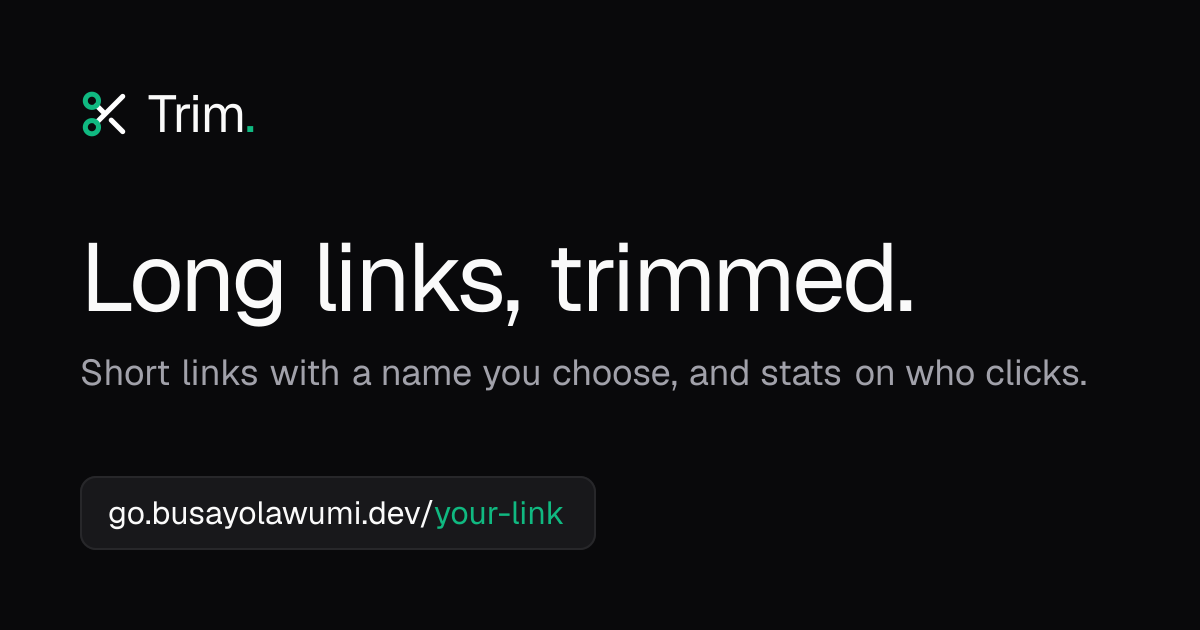
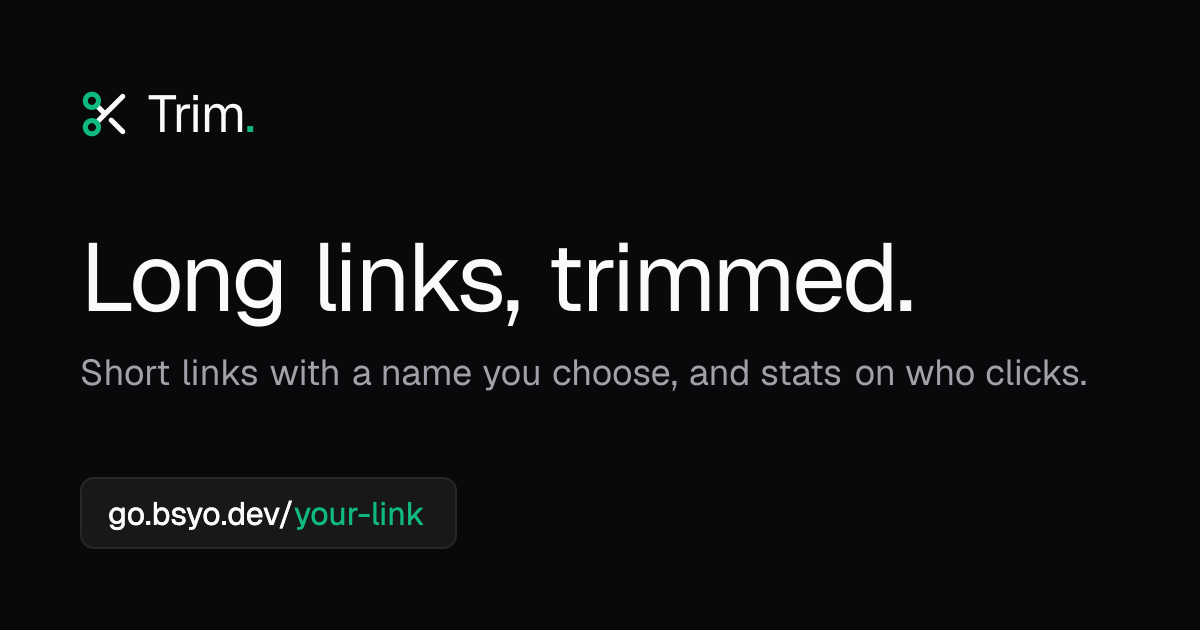
split app and short link domains

Changed region(s): [[0.0925, 0.754, 0.4933, 0.8746]]

diff --git a/src/app/actions/links.ts b/src/app/actions/links.ts
@@ -5,6 +5,7 @@ import { redirect } from "next/navigation";
 import { and, count, eq, sql } from "drizzle-orm";
 import { z } from "zod";
 import { db, isUniqueViolation, linkEvents, links } from "@/db";
+import { APP_BASE_URL, SHORT_BASE_URL } from "@/lib/config";
 import { setFlash } from "@/lib/flash";
 import { normalizeTitle } from "@/lib/link-title";
 import { isUnsafeUrl } from "@/lib/safe-browsing";
@@ -26,13 +27,7 @@ const urlSchema = z
 
 const linkIdSchema = z.uuid();
 
-function shortHost() {
-  try {
-    return new URL(process.env.NEXT_PUBLIC_SHORT_BASE_URL ?? "").hostname;
-  } catch {
-    return null;
-  }
-}
+const TRIM_HOSTNAMES = new Set([SHORT_BASE_URL, APP_BASE_URL].map((url) => new URL(url).hostname));
 
 /** Checks a destination URL for both new and edited links. */
 async function checkDestination(raw: string): Promise<{ url: string } | { error: string }> {
@@ -40,7 +35,7 @@ async function checkDestination(raw: string): Promise<{ url: string } | { error:
   if (!parsedUrl.success) return { error: parsedUrl.error.issues[0].message };
   const url = parsedUrl.data;
 
-  if (new URL(url).hostname === shortHost()) {
+  if (TRIM_HOSTNAMES.has(new URL(url).hostname)) {
     return { error: "You can't shorten a Trim link." };
   }
 

diff --git a/next.config.ts b/next.config.ts
@@ -13,7 +13,37 @@ const securityHeaders = [
   // would change what destination sites see. Vercel already sends Strict-Transport-Security.
 ];
 
+// The website's own pages. On the short-link domain they redirect to the app's domain, so a
+// new top-level page needs adding here.
+const APP_PATHS = [
+  "/",
+  "/login",
+  "/signup",
+  "/forgot-password",
+  "/reset-password",
+  "/verify-email",
+  "/confirm-email",
+  "/dashboard/:path*",
+  "/api/:path*",
+];
+
 const nextConfig: NextConfig = {
+  async redirects() {
+    const short = process.env.NEXT_PUBLIC_SHORT_BASE_URL;
+    const app = process.env.NEXT_PUBLIC_APP_BASE_URL;
+    if (!short || !app) return [];
+    const shortHost = new URL(short).hostname;
+    const appUrl = new URL(app);
+    if (shortHost === appUrl.hostname) return [];
+
+    return APP_PATHS.map((source) => ({
+      source,
+      has: [{ type: "host" as const, value: shortHost }],
+      destination: `${appUrl.origin}${source}`,
+      // Temporary, so browsers don't cache it if the domains ever change.
+      permanent: false,
+    }));
+  },
   async headers() {
     return [{ source: "/:path*", headers: securityHeaders }];
   },

diff --git a/src/app/actions/auth.ts b/src/app/actions/auth.ts
@@ -6,7 +6,7 @@ import { eq, sql } from "drizzle-orm";
 import { z } from "zod";
 import { db, passwordResetTokens, users } from "@/db";
 import { randomAvatar } from "@/lib/avatars";
-import { SHORT_BASE_URL } from "@/lib/config";
+import { APP_BASE_URL } from "@/lib/config";
 import { sendEmail } from "@/lib/email";
 import { cancelEmailChange } from "@/lib/email-change";
 import { sendVerificationEmail } from "@/lib/email-verification";
@@ -142,7 +142,7 @@ export async function requestPasswordReset(
     if (!user) return;
 
     const token = await createResetToken(user.id);
-    const link = `${SHORT_BASE_URL}/reset-password?token=${token}`;
+    const link = `${APP_BASE_URL}/reset-password?token=${token}`;
     await sendEmail({
       to: email,
       subject: "Reset your Trim password",

diff --git a/src/lib/email-verification.ts b/src/lib/email-verification.ts
@@ -1,7 +1,7 @@
 import "server-only";
 import { and, eq, gt, isNull, lt, sql } from "drizzle-orm";
 import { db, emailVerificationTokens, users } from "@/db";
-import { SHORT_BASE_URL } from "@/lib/config";
+import { APP_BASE_URL } from "@/lib/config";
 import { sendEmail } from "@/lib/email";
 import { hashToken, newToken } from "@/lib/tokens";
 
@@ -22,7 +22,7 @@ export async function sendVerificationEmail(userId: string, email: string) {
       expiresAt: sql`now() + make_interval(hours => ${VERIFY_TOKEN_HOURS})`,
     });
 
-  const link = `${SHORT_BASE_URL}/verify-email?token=${token}`;
+  const link = `${APP_BASE_URL}/verify-email?token=${token}`;
   await sendEmail({
     to: email,
     subject: "Verify your email for Trim",

diff --git a/src/app/layout.tsx b/src/app/layout.tsx
@@ -1,7 +1,7 @@
 import type { Metadata } from "next";
 import { Geist, Geist_Mono } from "next/font/google";
 import { Toaster } from "@/components/toaster";
-import { SHORT_BASE_URL } from "@/lib/config";
+import { APP_BASE_URL } from "@/lib/config";
 import "./globals.css";
 
 const geistSans = Geist({
@@ -18,7 +18,7 @@ const description = "Shorten links and see who clicks them.";
 
 export const metadata: Metadata = {
   // Makes the share image's URL absolute, as chat and social apps require.
-  metadataBase: new URL(SHORT_BASE_URL),
+  metadataBase: new URL(APP_BASE_URL),
   title: "Trim",
   description,
   // Browsers that can show SVG icons use the SVG (sharp at any size, no background, blades that

diff --git a/src/lib/security-emails.ts b/src/lib/security-emails.ts
@@ -1,6 +1,6 @@
 import "server-only";
 import { after } from "next/server";
-import { SHORT_BASE_URL } from "@/lib/config";
+import { APP_BASE_URL } from "@/lib/config";
 import { sendEmail } from "@/lib/email";
 import { getTimezone } from "@/lib/timezone";
 
@@ -21,7 +21,7 @@ export async function notifyPasswordChanged(email: string) {
         `The password for your Trim account (${email}) was changed on ${when} (${tz.replace(/_/g, " ")}).\n\n` +
         `If this was you, there's nothing else to do.\n\n` +
         `If it wasn't, reset your password now. That also logs out every device:\n` +
-        `${SHORT_BASE_URL}/forgot-password`,
+        `${APP_BASE_URL}/forgot-password`,
     }),
   );
 }

diff --git a/src/lib/email-change.ts b/src/lib/email-change.ts
@@ -9,7 +9,7 @@ import {
   passwordResetTokens,
   users,
 } from "@/db";
-import { SHORT_BASE_URL } from "@/lib/config";
+import { APP_BASE_URL } from "@/lib/config";
 import { sendEmail } from "@/lib/email";
 import { hashToken, newToken } from "@/lib/tokens";
 
@@ -29,7 +29,7 @@ export async function sendEmailChangeLink(userId: string, newEmail: string) {
       expiresAt: sql`now() + make_interval(hours => ${CHANGE_TOKEN_HOURS})`,
     });
 
-  const link = `${SHORT_BASE_URL}/confirm-email?token=${token}`;
+  const link = `${APP_BASE_URL}/confirm-email?token=${token}`;
   await sendEmail({
     to: newEmail,
     subject: "Confirm your new email for Trim",

diff --git a/src/app/dashboard/[slug]/link-editors.tsx b/src/app/dashboard/[slug]/link-editors.tsx
@@ -96,7 +96,7 @@ export function LinkSlug({ linkId, slug }: { linkId: string; slug: string }) {
       {/* Wraps instead of truncating: on a phone the host alone nearly fills the line. Opens the
           preview page, so checking the link from here isn't counted as a click. */}
       <a
-        href={`/${slug}/preview`}
+        href={`${shortUrl(slug)}/preview`}
         target="_blank"
         title="Open preview"
         className="mr-1 min-w-0 text-lg font-semibold wrap-anywhere text-blue-600 hover:underline sm:text-xl dark:text-blue-400"

diff --git a/src/app/dashboard/link-list.tsx b/src/app/dashboard/link-list.tsx
@@ -134,7 +134,7 @@ function LinkItem({ link, timeZone }: { link: LinkRow; timeZone: string }) {
         <div className="mt-1 flex items-center gap-1">
           {/* The preview page, so opening it from here isn't counted as a click. */}
           <a
-            href={`/${link.slug}/preview`}
+            href={`${shortUrl(link.slug)}/preview`}
             target="_blank"
             title="Open preview"
             className="min-w-0 font-medium wrap-anywhere text-blue-600 hover:underline dark:text-blue-400"

diff --git a/src/lib/config.ts b/src/lib/config.ts
@@ -4,6 +4,9 @@ export const SHORT_BASE_URL = (
 
 export const SHORT_HOST = SHORT_BASE_URL.replace(/^https?:\/\//, "");
 
+/** Where the site itself lives: login, dashboard and the links in emails. Defaults to the short-link URL. */
+export const APP_BASE_URL = (process.env.NEXT_PUBLIC_APP_BASE_URL || SHORT_BASE_URL).replace(/\/$/, "");
+
 export function shortUrl(slug: string) {
   return `${SHORT_BASE_URL}/${slug}`;
 }

diff --git a/README.md b/README.md
@@ -1,6 +1,6 @@
 # Trim
 
-A link shortener with click tracking. Live at `go.busayolawumi.dev`.
+A link shortener with click tracking. Live at `trim.bsyo.dev`, with short links on `go.bsyo.dev`.
 
 - Sign up, paste a long URL, and choose a short name (or get a random one)
 - The short name is checked for availability as you type
@@ -36,9 +36,14 @@ scrypt password hashing + a signed JWT session cookie (`jose`). Runs on Vercel's
    - `SESSION_SECRET`
    - `RESEND_API_KEY` and `EMAIL_FROM` (password reset emails; the sending domain must be verified in Resend)
    - `SAFE_BROWSING_API_KEY` (Google Safe Browsing; new links to known phishing/malware are refused)
-   - `NEXT_PUBLIC_SHORT_BASE_URL=https://go.busayolawumi.dev`
-3. In **Project → Settings → Domains**, add `go.busayolawumi.dev`. Since the domain's DNS is on
-   Vercel, the record is created automatically.
+   - `NEXT_PUBLIC_SHORT_BASE_URL=https://go.bsyo.dev` (short links and QR codes)
+   - `NEXT_PUBLIC_APP_BASE_URL=https://trim.bsyo.dev` (the site, and the links in emails)
+
+   Both are baked in at build time, so redeploy after changing them.
+3. In **Project → Settings → Domains**, add both `trim.bsyo.dev` and `go.bsyo.dev` to this project.
+   If the domain's DNS is on Vercel, the records are created automatically; otherwise add the CNAME
+   records Vercel shows at your DNS provider. On `go.bsyo.dev`, the website's pages redirect to
+   `trim.bsyo.dev` (`redirects()` in `next.config.ts`); short links work on both.
 
 ## Database changes
 
